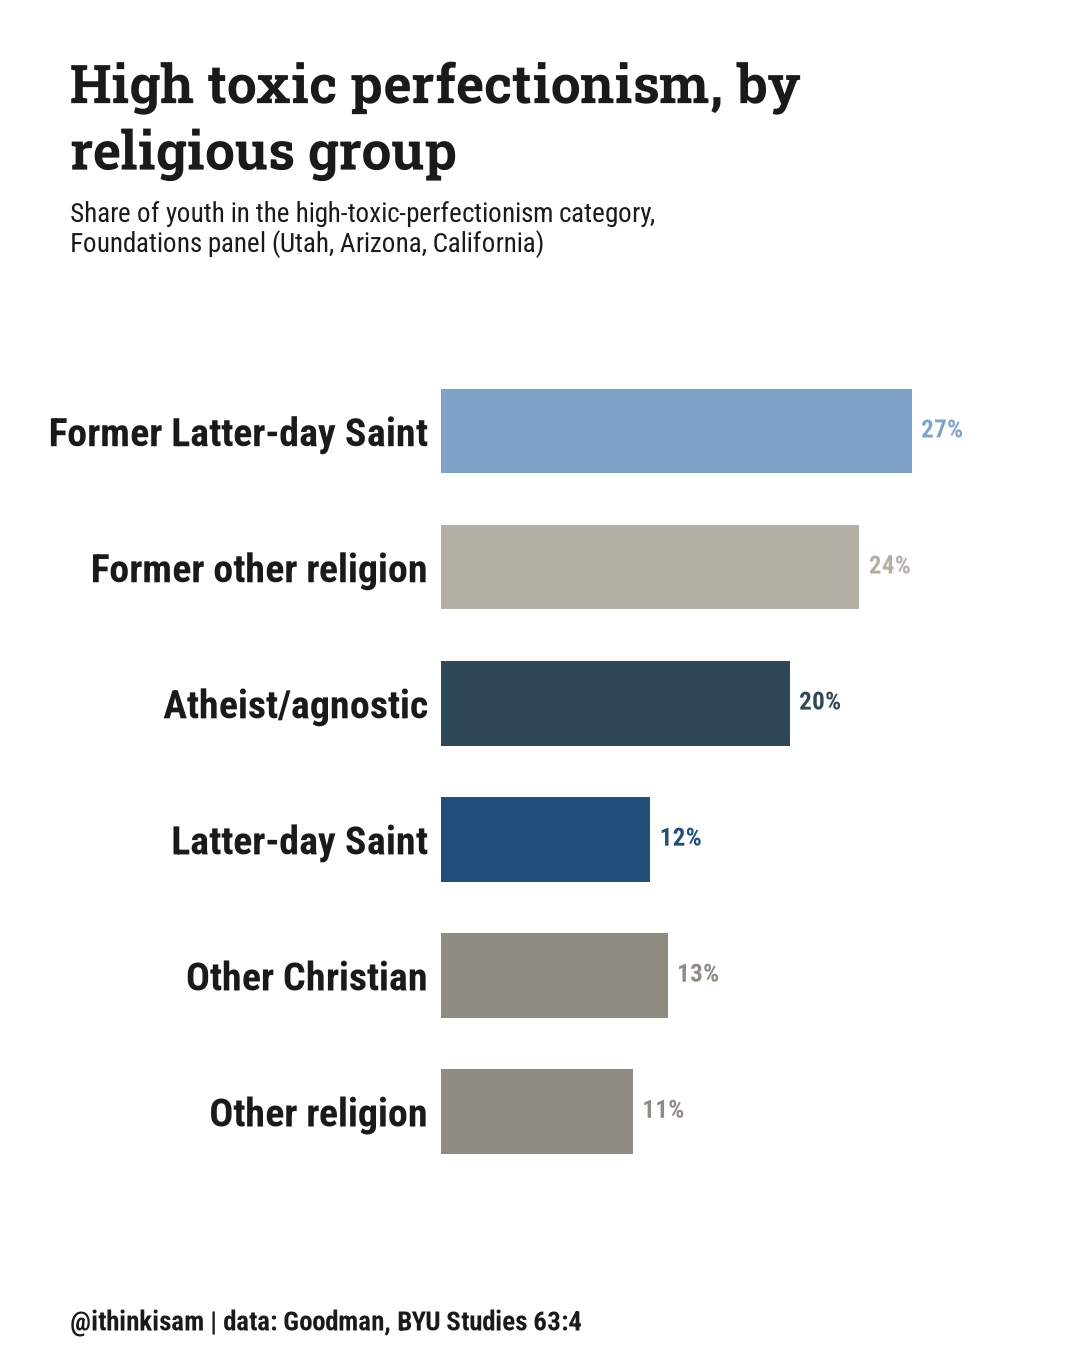
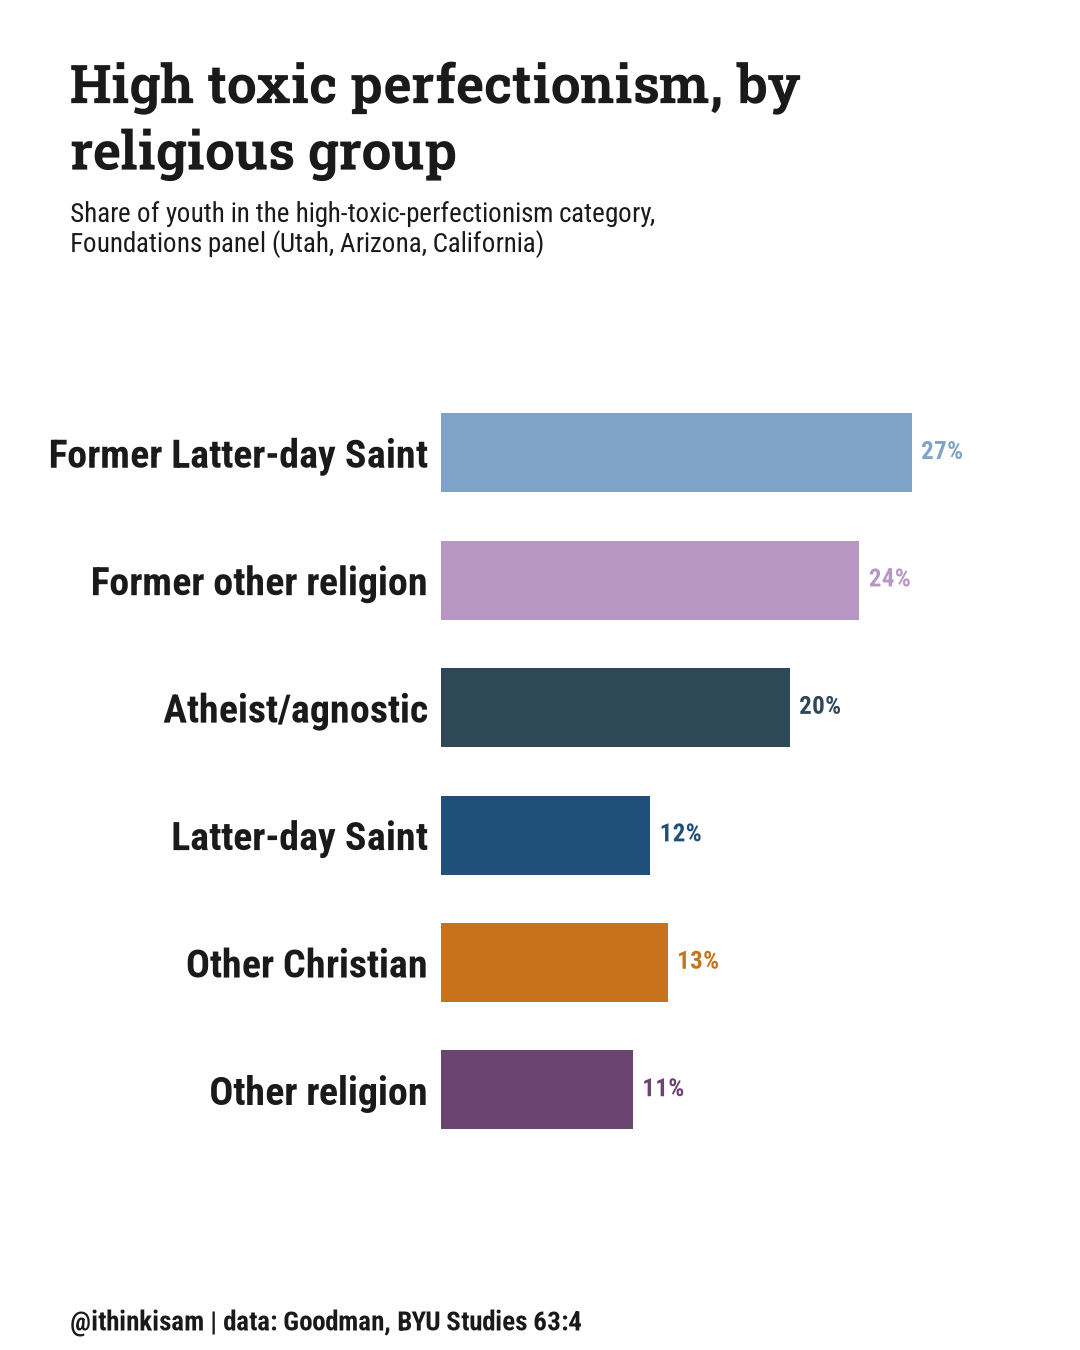
Give the perfectionism-by-group chart more colors, add its full Figure 1 breakdown
high-perfectionism-by-group.png: "Other Christian" and "Other religion"
used to share CONTEXT_GRAY with "Former other religion" a shade away -
three near-identical gray bars. Each catch-all now gets its own locked
hue (amber, plum); every current/former pair (Latter-day Saint, Other
religion) still follows the same rule - former is a lighter shade of the
current group's own family, never gray or --oxblood. Latter-day Saint
and Former Latter-day Saint colors are unchanged.

New chart, perfectionism-distribution-by-group.png: the source article's
Figure 1 (full Low/Mid-Low/Mid/Mid-High/High distribution by group,
including "Believe in God, no religion" - not just the "% High" bar the
existing chart shows), transcribed into data.json and rendered with a
new common.py shape, render_ordinal_stack - render_100_stack's
general-purpose sibling for a caller-supplied ordinal segment
palette instead of the fixed Yes/No/Don't-know one, since this study's 5
segments needed their own distinct colors (a different palette than the
source figure's own, cool-to-warm ending on --oxblood for "High").

diff --git a/src/lib/study-graphics.ts b/src/lib/study-graphics.ts
@@ -147,6 +147,28 @@ function perfectionismByGroupGraphic(): Graphic {
   };
 }
 
+function perfectionismDistributionByGroupGraphic(): Graphic {
+  const { rows, segments } = religionPerfectionismData.charts[
+    "perfectionism-distribution-by-group"
+  ];
+  const alt = rows
+    .map(
+      (r) =>
+        `${r.label}: ${segments.map((s) => `${s} ${r[s as keyof typeof r]}%`).join(", ")}`,
+    )
+    .join("; ");
+  return {
+    title: "The full perfectionism spread, by religious identity",
+    description:
+      "Full Low-through-High distribution of socially prescribed and discrepancy perfectionism by religious-identity group (the source article's Figure 1), from the Foundations longitudinal panel.",
+    imageSrc:
+      "/study-graphics/byu-studies-63-4-religion-and-perfectionism/perfectionism-distribution-by-group.png",
+    width: 1080,
+    height: 1350,
+    alt: `100%-stacked bar chart: share of each religious-identity group in each perfectionism band (Low, Mid-Low, Mid, Mid-High, High). ${alt}.`,
+  };
+}
+
 function introjectedMotivationGraphic(): Graphic {
   const { rows } = religionPerfectionismData.charts["introjected-motivation"];
   const alt = rows.map((r) => `${r.label} ${r.pct}%`).join(", ");
@@ -216,7 +238,11 @@ const RAW_STUDY_GRAPHICS: StudyGraphicsEntry[] = [
   },
   {
     studySlug: "byu-studies-63-4-religion-and-perfectionism",
-    graphics: [perfectionismByGroupGraphic(), introjectedMotivationGraphic()],
+    graphics: [
+      perfectionismByGroupGraphic(),
+      perfectionismDistributionByGroupGraphic(),
+      introjectedMotivationGraphic(),
+    ],
   },
   // Link-only entries: these studies duplicate an existing Data Explorer
   // dataset, so their pages point at its graphics instead of committing the

diff --git a/scripts/flagship-charts/common.py b/scripts/flagship-charts/common.py
@@ -88,6 +88,20 @@ distinction: here every entry gets its own real-vs-projected pair, so the
 dashed/solid device doesn't apply and confidence is instead marked with an
 asterisk on the row label (see `low_confidence_rows`) with the caption
 explaining which bodies that covers and why.
+
+render_ordinal_stack (added for the byu-studies-63-4-religion-and-
+perfectionism study's full perfectionism-distribution chart) is
+render_100_stack's general-purpose sibling: a 100%-stacked horizontal bar
+over a caller-supplied ordinal segment order (e.g. Low/Mid-Low/Mid/
+Mid-High/High) with a caller-supplied color AND text-color per segment,
+rather than the fixed Yes/No/Don't-know palette. render_100_stack itself
+stays untouched (its fixed palette is still the right, simpler default for
+an actual yes/no/don't-know item) - this is a new function, not a mode
+flag on it, per this module's own "add it as its own function" rule.
+`segment_text_colors` is caller-supplied rather than computed from
+contrast because a handful of ordinal charts is not worth a luminance
+heuristic; pick PAPER for a dark/saturated segment fill and INK for a
+light one, and eyeball the rendered PNG.
 """
 
 from __future__ import annotations
@@ -817,6 +831,108 @@ def render_100_stack(
 
     import matplotlib.patches as mpatches
     handles = [mpatches.Patch(facecolor=YES_NO_DK_COLORS[s], edgecolor=INK, label=s)
+               for s in segment_order]
+    legend = ax.legend(
+        handles=handles, loc="upper left", bbox_to_anchor=(0.065, legend_top_y),
+        bbox_transform=fig.transFigure,
+        ncol=legend_ncol, frameon=False, handlelength=1.6, handleheight=1.6,
+        fontsize=MIN.LEGEND, prop=fonts["bold"], columnspacing=1.4, labelspacing=0.9,
+    )
+    for text in legend.get_texts():
+        text.set_color(INK)
+        text.set_fontsize(MIN.LEGEND)
+
+    out_path.parent.mkdir(parents=True, exist_ok=True)
+    fig.savefig(out_path, facecolor=PAPER, dpi=DPI)
+    plt.close(fig)
+    print(f"wrote {out_path} ({FIG_W_IN * DPI}x{int(FIG_H_IN * DPI)}px)")
+
+
+def render_ordinal_stack(
+    *,
+    rows: list[str],
+    segment_order: list[str],
+    segment_colors: dict[str, str],
+    segment_text_colors: dict[str, str],
+    values: dict[str, dict[str, float]],
+    title: str,
+    subtitle: str,
+    caption_paragraphs: list[str],
+    handle: str | None = None,
+    handle_color: str | None = None,
+    out_path: Path,
+    fonts: dict[str, fm.FontProperties] | None = None,
+    axes_left: float = 0.30,
+) -> None:
+    """render_100_stack's general-purpose sibling (see this module's
+    docstring for why it's a separate function): a 100%-stacked horizontal
+    bar over a caller-supplied `segment_order` (e.g. an ordinal Low/
+    Mid-Low/Mid/Mid-High/High scale), with a caller-supplied hex per
+    segment in `segment_colors` and its matching label color in
+    `segment_text_colors` (PAPER for a dark/saturated fill, INK for a
+    light one). `values[row][segment]` is that segment's share of that
+    row, 0-100. `caption_paragraphs` are passed straight to
+    chart_style.draw_caption_bottom, same convention as every other shape
+    in this module. `axes_left` reserves that figure-fraction for the row
+    labels before the bars start, same meaning as render_magnitude_bar's
+    own parameter of the same name - raise it above the 0.30 default (sized
+    for render_100_stack's own short "U.S. Mormons"/"U.S. general public"
+    labels) for a longer row label. This function has one caller so far, so
+    unlike render_magnitude_bar there's no wrap-and-auto-widen step yet;
+    add one here if a second caller's labels don't fit a manual bump.
+    """
+    fonts = fonts or load_fonts()
+    fig = plt.figure(figsize=(FIG_W_IN, FIG_H_IN), dpi=DPI)
+    fig.patch.set_facecolor(PAPER)
+
+    subtitle_bottom = _draw_title(fig, fonts, title, subtitle)
+    caption_top = draw_caption_bottom(
+        fig, fonts, caption_paragraphs, handle=handle, handle_color=handle_color,
+        fontsize=16, color=INK,
+    )
+    ax_top = subtitle_bottom - 0.03
+
+    n_segs = len(segment_order)
+    legend_ncol = min(n_segs, 3)
+    legend_rows = -(-n_segs // legend_ncol)  # ceil division
+    legend_bottom_y = caption_top + 0.02
+    legend_top_y = legend_bottom_y + LEGEND_ROW_HEIGHT * legend_rows
+    ax_bottom = legend_top_y + 0.02
+
+    AXES_LEFT, AXES_WIDTH = axes_left, 0.94 - axes_left
+    ax = fig.add_axes([AXES_LEFT, ax_bottom, AXES_WIDTH, ax_top - ax_bottom])
+    ax.set_facecolor(PAPER)
+    ax.set_xticks([])
+    for spine in ax.spines.values():
+        spine.set_visible(False)
+    ax.tick_params(axis="y", length=0, pad=8)
+
+    display_rows = rows[::-1]
+    bar_h = 0.42
+
+    left = [0.0] * len(display_rows)
+    for seg in segment_order:
+        color = segment_colors[seg]
+        text_color = segment_text_colors[seg]
+        vals = [values[r][seg] for r in display_rows]
+        ax.barh(display_rows, vals, left=left, height=bar_h, color=color,
+                 edgecolor=INK, linewidth=1.5, zorder=3)
+        for r, v, l in zip(display_rows, vals, left):
+            if v >= 5:
+                ax.text(l + v / 2, r, f"{v:.0f}%", va="center", ha="center",
+                        color=text_color, fontproperties=fonts["bold"],
+                        fontsize=MIN.DATA_LABEL + 3, zorder=4)
+        left = [l + v for l, v in zip(left, vals)]
+
+    ax.set_xlim(0, 100)
+    ax.margins(y=0.35)
+    for tick_label in ax.get_yticklabels():
+        tick_label.set_fontproperties(fonts["bold"])
+        tick_label.set_fontsize(MIN.LEGEND)
+        tick_label.set_color(INK)
+
+    import matplotlib.patches as mpatches
+    handles = [mpatches.Patch(facecolor=segment_colors[s], edgecolor=INK, label=s)
                for s in segment_order]
     legend = ax.legend(
         handles=handles, loc="upper left", bbox_to_anchor=(0.065, legend_top_y),

diff --git a/scripts/study-graphics/byu-studies-63-4-religion-and-perfectionism/render_charts.py b/scripts/study-graphics/byu-studies-63-4-religion-and-perfectionism/render_charts.py
@@ -1,7 +1,8 @@
-"""Renders the two study graphics for Goodman's "Religion and
+"""Renders the three study graphics for Goodman's "Religion and
 Perfectionism" (BYU Studies Quarterly 63:4, 2024) - a high-toxic-
-perfectionism-by-religious-group magnitude bar and a high- vs.
-low-perfectionism introjected-motivation bar.
+perfectionism-by-religious-group magnitude bar, the same study's full
+Low-through-High perfectionism-distribution stack (its Figure 1), and a
+high- vs. low-perfectionism introjected-motivation bar.
 
 Every number comes from docs/study-data/<study-slug>/data.json (see that
 file's `sources` for the transcription provenance); nothing is typed here.
@@ -27,8 +28,8 @@ SCRIPTS_DIR = Path(__file__).resolve().parent.parent.parent
 sys.path.insert(0, str(SCRIPTS_DIR))
 sys.path.insert(0, str(SCRIPTS_DIR / "flagship-charts"))
 
-from chart_style import CONTEXT_GRAY, GROUP_COLORS, sort_groups  # noqa: E402
-from common import load_fonts, render_magnitude_bar  # noqa: E402
+from chart_style import GROUP_COLORS, sort_groups  # noqa: E402
+from common import CONTEXT_GRAY, OXBLOOD, load_fonts, render_magnitude_bar, render_ordinal_stack  # noqa: E402
 
 STUDY_SLUG = "byu-studies-63-4-religion-and-perfectionism"
 REPO = SCRIPTS_DIR.parent
@@ -44,12 +45,21 @@ ROW_COLORS = {
     # The combined category takes the Atheist anchor of the atheist/agnostic
     # pair (the darker, more distinguishable of the two tokens).
     "Atheist/agnostic": GROUP_COLORS["Atheist"],
-    # Named catch-alls take the shared bar-safe gray, per the site-wide
-    # tier-1 rule; "Former other religion" is a lighter shade of that same
-    # family, mirroring the former-LDS treatment above.
-    "Other Christian": CONTEXT_GRAY,
-    "Other religion": CONTEXT_GRAY,
-    "Former other religion": "#B3AFA5",
+    # "Other Christian" and "Other religion" used to share the same
+    # CONTEXT_GRAY tier-1 catch-all token, which read as one indistinct
+    # gray block next to "Former other religion"'s only-slightly-lighter
+    # gray - three near-identical bars in a six-row chart. Each catch-all
+    # gets its own locked hue instead, still outside GROUP_COLORS proper
+    # since neither is a single named tradition: amber for "Other
+    # Christian" (this study's broad non-LDS-Christian category, distinct
+    # from but in the same warm family as Protestant's amber) and plum for
+    # "Other religion" (this study's broad non-Christian category). Former
+    # Latter-day Saint above still sets the pattern every current/former
+    # pair here follows: former = a lighter shade of the current group's
+    # own family, never CONTEXT_GRAY or --oxblood.
+    "Other Christian": "#C9721C",
+    "Other religion": "#6B4472",
+    "Former other religion": "#B896C4",
 }
 
 
@@ -68,6 +78,41 @@ def main() -> None:
         handle=HANDLE,
         out_path=OUT_DIR / "high-perfectionism-by-group.png",
         fonts=fonts,
+    )
+
+    # Segment colors for the full Low-through-High distribution stack
+    # (Figure 1 in the source article). A caller-chosen ordinal ramp, not
+    # religious-group identity colors (segments are perfectionism bands,
+    # not groups) - distinct from the source figure's own blue/orange/
+    # gray/yellow/navy palette, and cool-to-warm so "High" (toxic
+    # perfectionism, the study's own negative outcome) lands on --oxblood,
+    # this pipeline's decline/negative token, same as it does elsewhere.
+    dist = {r["label"]: r for r in DATA["charts"]["perfectionism-distribution-by-group"]["rows"]}
+    segment_order = DATA["charts"]["perfectionism-distribution-by-group"]["segments"]
+    SEGMENT_COLORS = {
+        "Low": "#3E7CA6",
+        "Mid-Low": "#4F8C63",
+        "Mid": CONTEXT_GRAY,
+        "Mid-High": "#B8860B",
+        "High": OXBLOOD,
+    }
+    SEGMENT_TEXT_COLORS = {seg: "#FFFFFF" for seg in segment_order}
+    render_ordinal_stack(
+        rows=sort_groups(list(dist), lambda label: dist[label]["High"]),
+        segment_order=segment_order,
+        segment_colors=SEGMENT_COLORS,
+        segment_text_colors=SEGMENT_TEXT_COLORS,
+        values=dist,
+        title="The full perfectionism spread, by religious identity",
+        subtitle="Share of each group in each perfectionism band,\nFoundations panel (Utah, Arizona, California)",
+        caption_paragraphs=[],
+        handle=HANDLE,
+        out_path=OUT_DIR / "perfectionism-distribution-by-group.png",
+        fonts=fonts,
+        # render_100_stack's 0.30 default is sized for short two-row labels
+        # ("U.S. Mormons"); this chart's longest row ("Believe in God, no
+        # religion") needs more room.
+        axes_left=0.44,
     )
 
     motivation = {r["label"]: r["pct"] for r in DATA["charts"]["introjected-motivation"]["rows"]}
